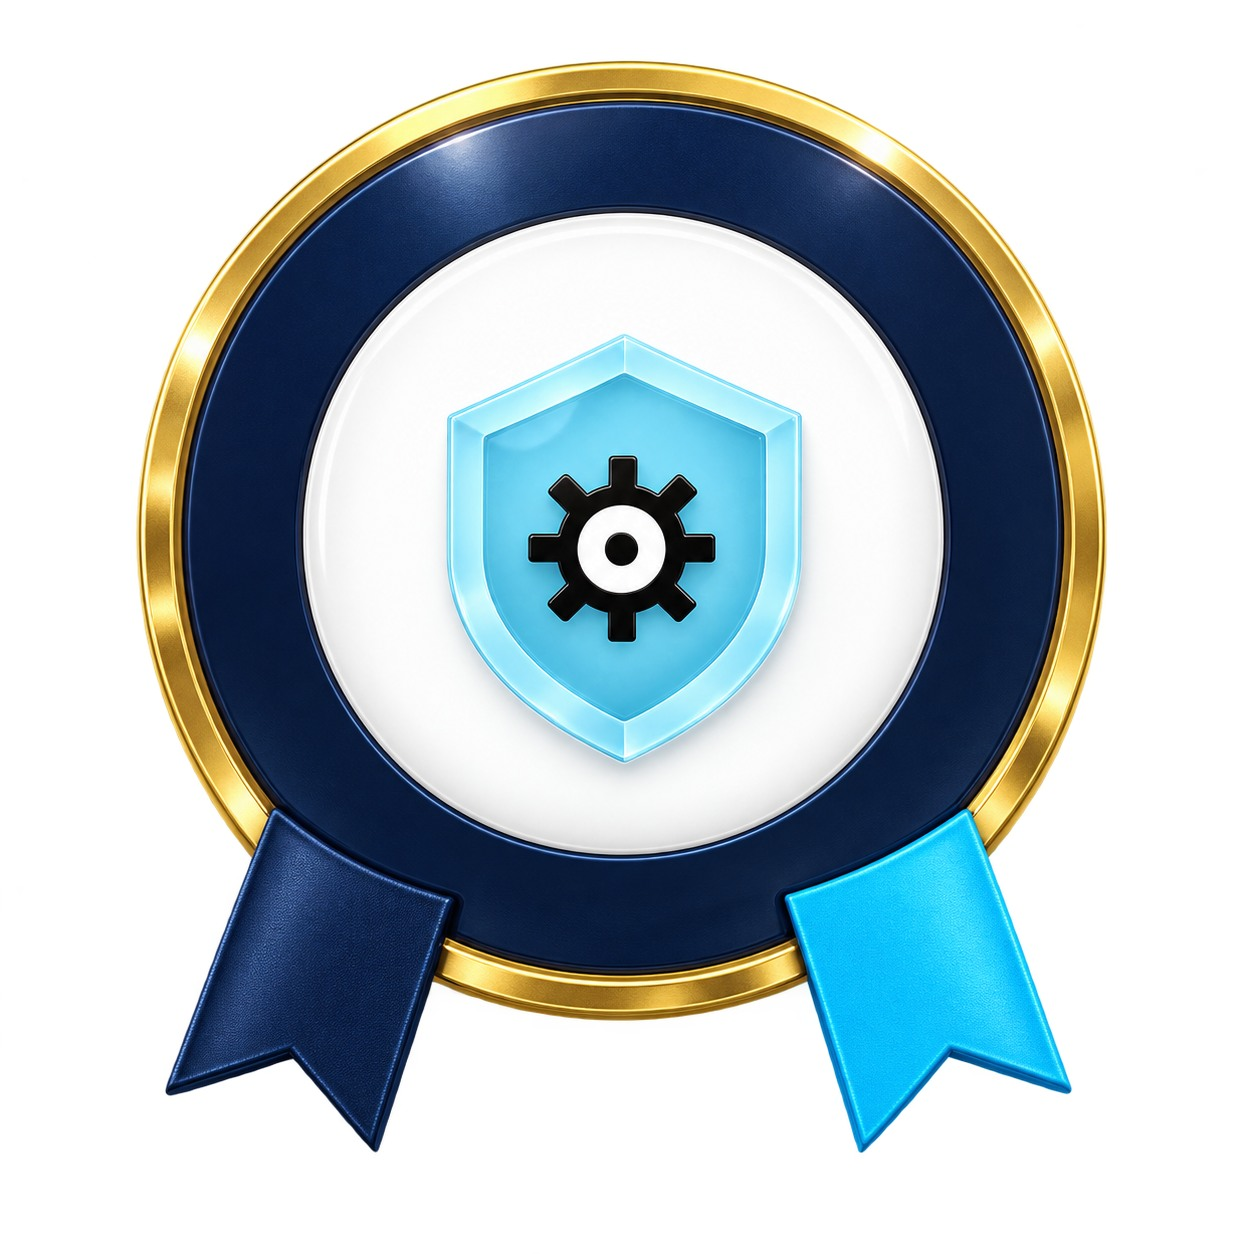
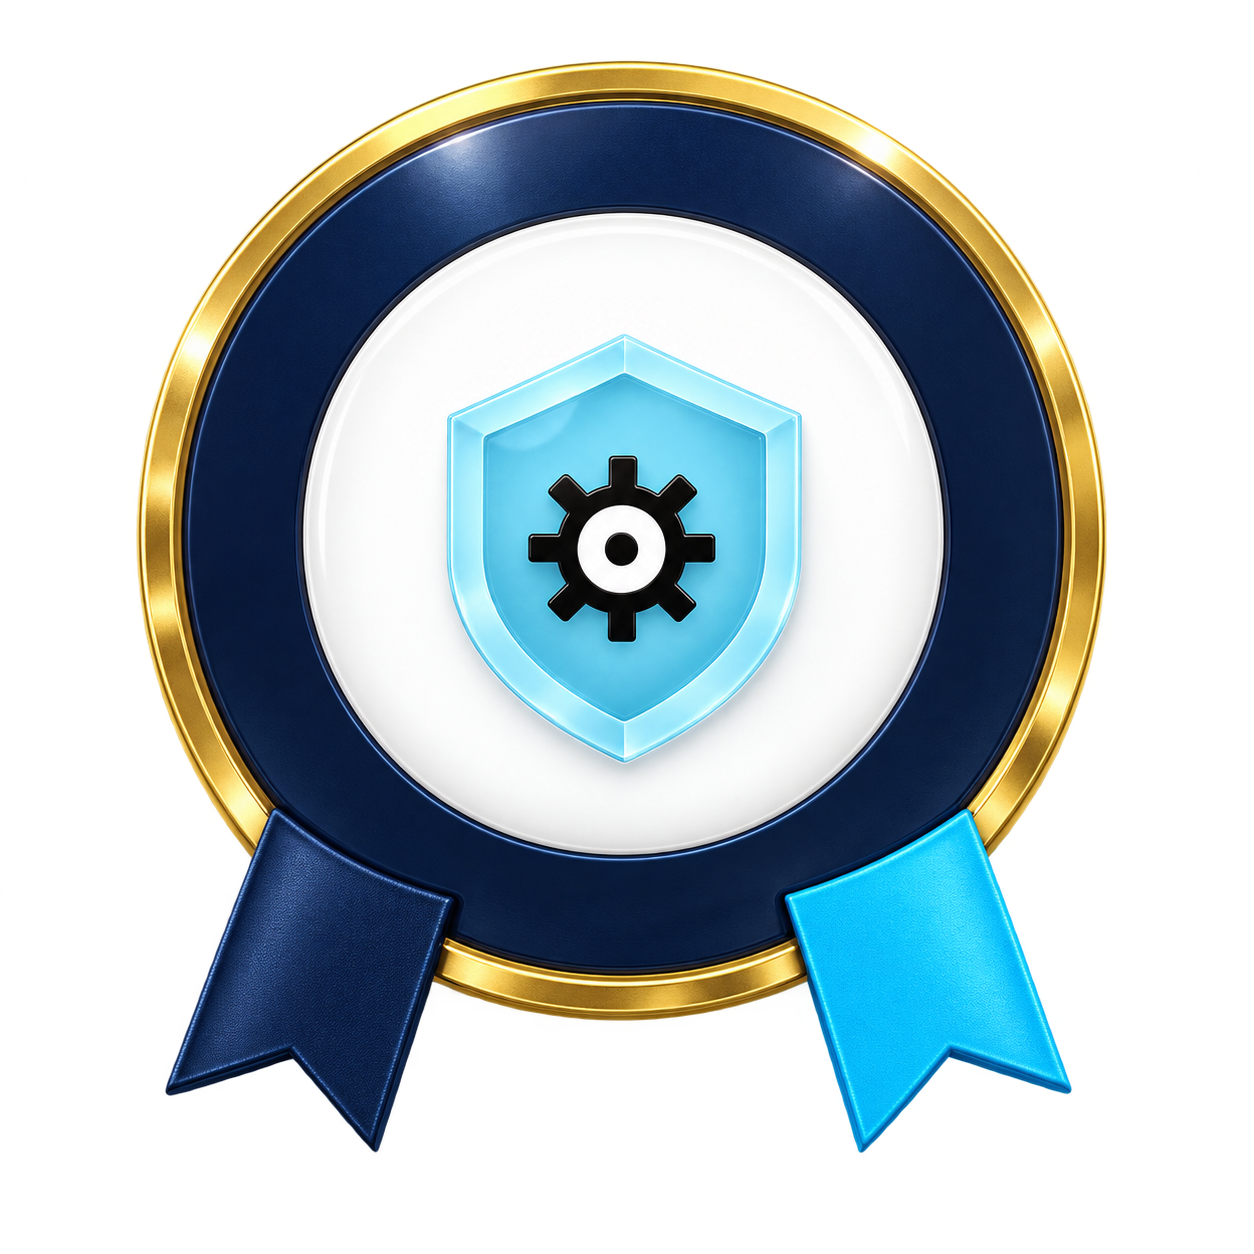
Use official certificate seal across certificate views

diff --git a/public/site-navigation.js b/public/site-navigation.js
@@ -54,6 +54,33 @@
     });
   }
 
+  function officialCertificateSeals() {
+    document.querySelectorAll('img').forEach((image) => {
+      const label = `${image.getAttribute('alt') || ''} ${image.getAttribute('title') || ''}`.toLowerCase();
+      if (!/cert(ificate)? seal|official seal/.test(label)) return;
+      if (!image.src.endsWith('/Cert_Seal.png')) image.src = '/Cert_Seal.png';
+      image.alt = 'TrustStack Academy official certificate seal';
+    });
+    document.querySelectorAll('.seal').forEach((seal) => {
+      if (seal.tagName === 'IMG') return;
+      seal.textContent = '';
+      seal.setAttribute('role', 'img');
+      seal.setAttribute('aria-label', 'TrustStack Academy official certificate seal');
+      Object.assign(seal.style, { background: 'transparent url(/Cert_Seal.png) center/contain no-repeat', borderRadius: '0' });
+    });
+    if (path.includes('certificate-preview')) {
+      const verified = document.querySelector('header > strong');
+      if (verified && !verified.parentElement.querySelector('.ts-official-seal')) {
+        const seal = document.createElement('img');
+        seal.className = 'ts-official-seal';
+        seal.src = '/Cert_Seal.png';
+        seal.alt = 'TrustStack Academy official certificate seal';
+        Object.assign(seal.style, { width: '46px', height: '46px', objectFit: 'contain', marginRight: '8px', verticalAlign: 'middle' });
+        verified.before(seal);
+      }
+    }
+  }
+
   function trackBadges() {
     document.querySelectorAll('h1,h2,h3,h4,h5,h6,a,span,strong,dt,dd').forEach((element) => {
       if (element.children.length) return;
@@ -116,6 +143,7 @@
   function wire() {
     addSharedStyles();
     brandHomeLinks();
+    officialCertificateSeals();
     trackBadges();
     document.querySelectorAll('a,button,span').forEach((element) => {
       const target = destination(element);
